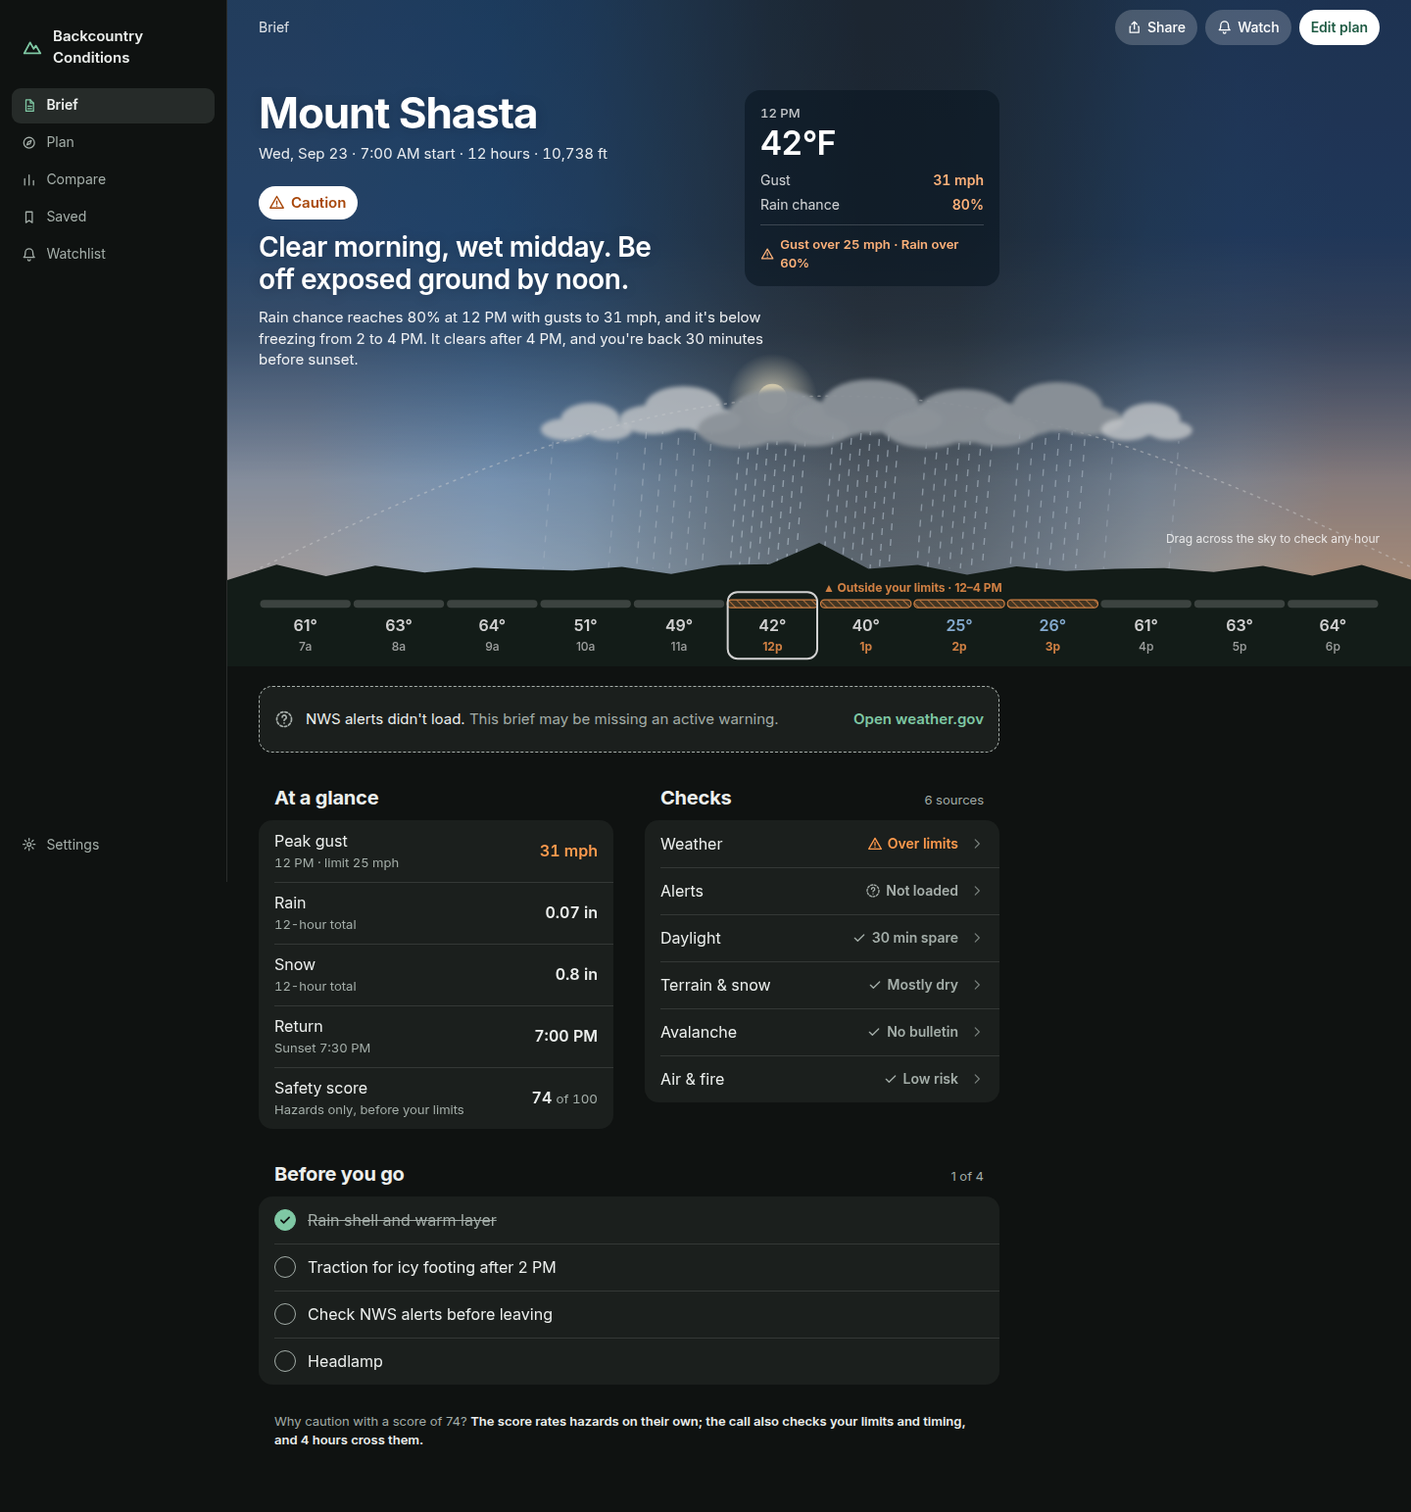
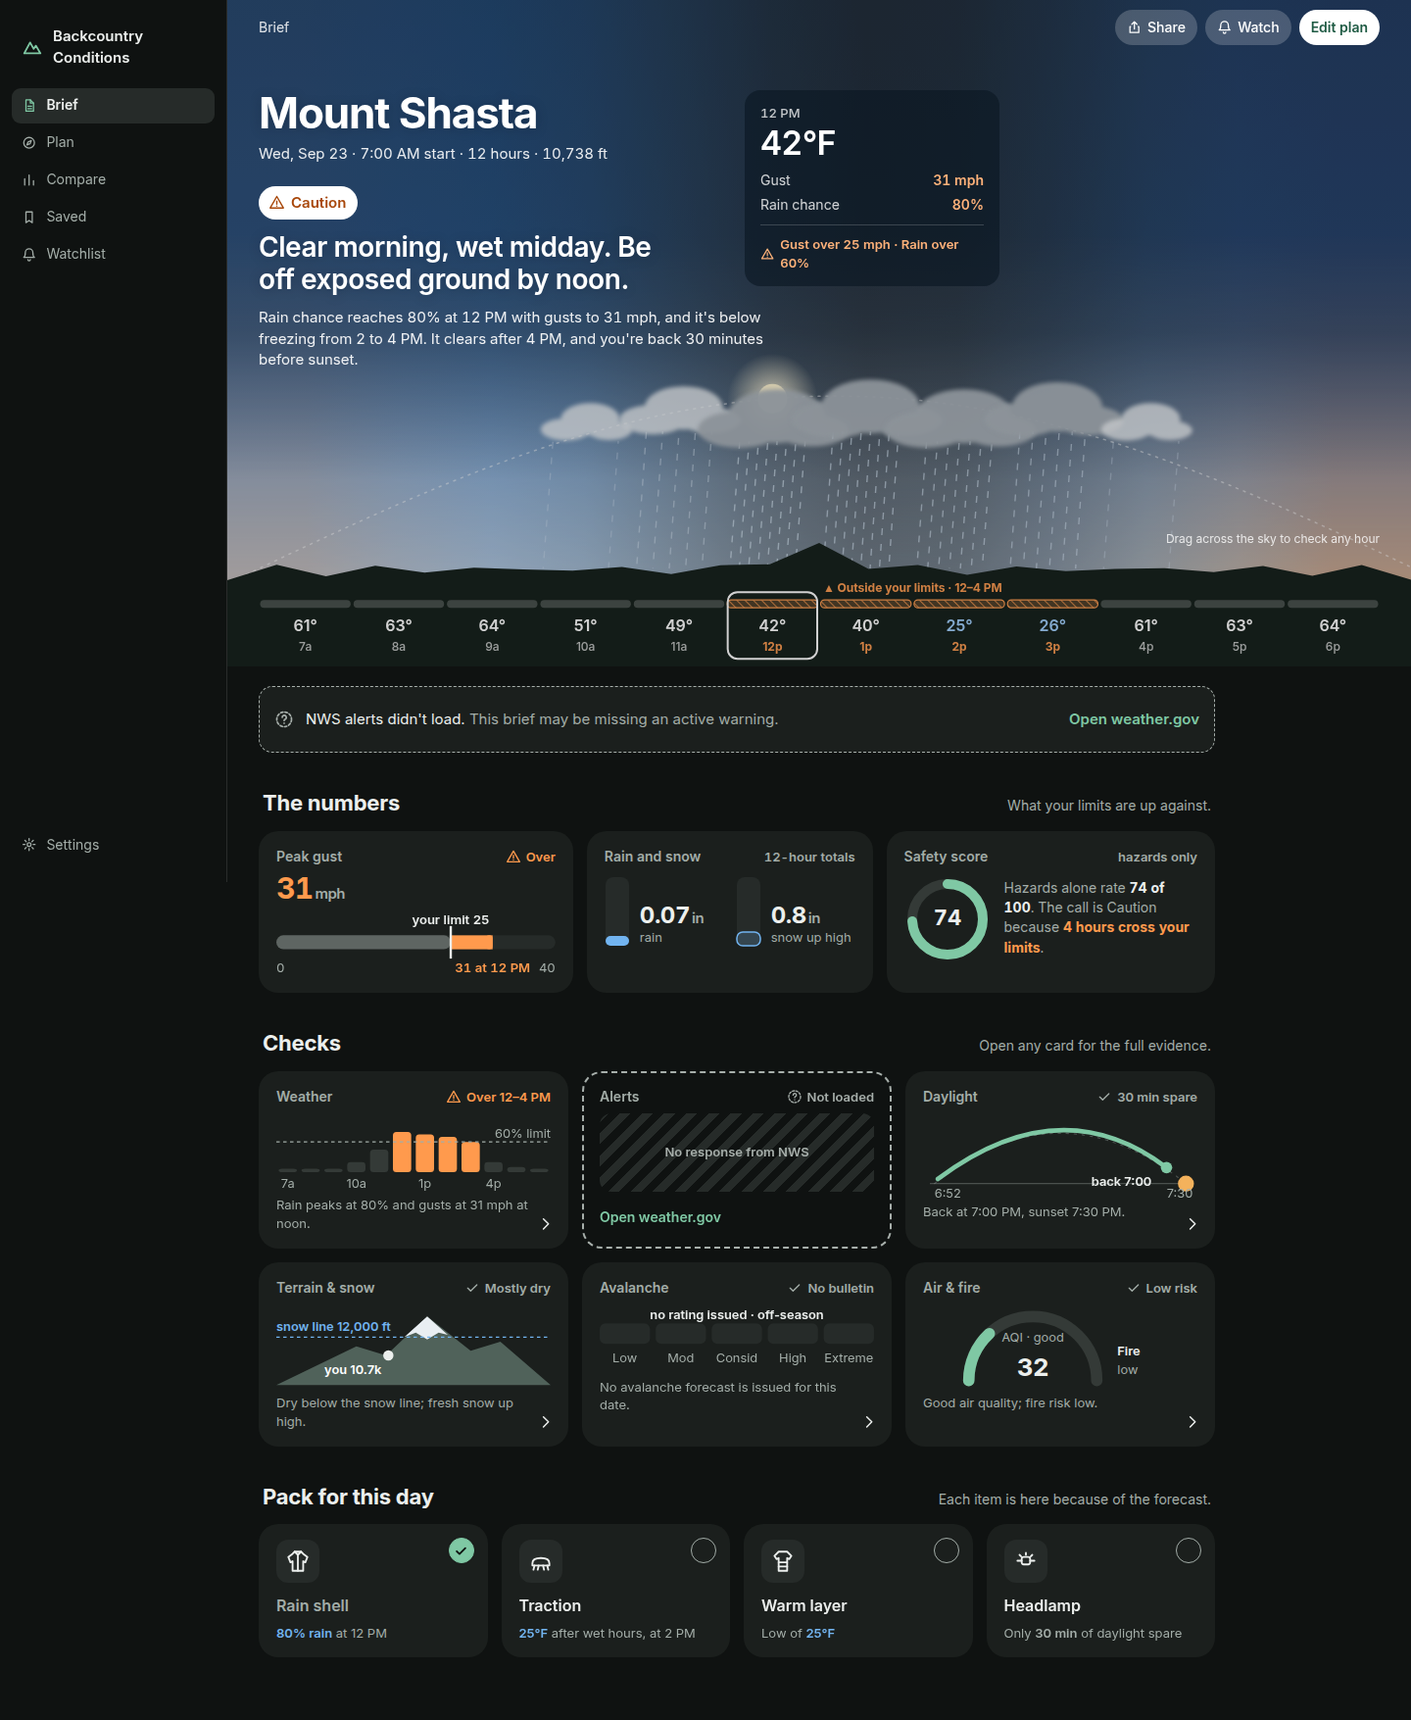
Give Sky (E) sections data-drawn visuals
Replace plain lists below the sky with cards whose pictures come from
the data: gust vs. limit bar, rain and snow gauges, score ring with the
reason for Caution, hourly weather bars against the rain limit, a
daylight arc with return time, a snow line against objective
elevation, the avalanche scale with no rating, an AQI gauge, a visibly
empty Alerts card, and a packing list where each item cites the
forecast that calls for it.

Claude-Session: https://claude.ai/code/session_01Nq5FVqMsNGnvnmLnbVQbdi

diff --git a/design-concepts/e-sky.html b/design-concepts/e-sky.html
@@ -224,6 +224,69 @@ a.row:hover{background:color-mix(in srgb,var(--fill) 55%,transparent)}
  .hint{display:none}
  .content-e{padding:16px 16px 120px}
 }
+/* ===== E2: sections carry the sky's idea — every visual is drawn from data ===== */
+.content-e{max-width:1040px}
+.content-e section{margin-top:36px}
+.content-e .sh{padding:0 4px 12px}
+.content-e .sh h3{font-size:22px}
+.content-e .sh p{font-size:14px;color:var(--secondary);margin-top:2px}
+.card{background:var(--surface);border-radius:20px;padding:16px 18px 16px;position:relative;display:flex;flex-direction:column;gap:6px;min-width:0}
+a.card{transition:transform .15s ease,box-shadow .15s ease}
+a.card:hover{box-shadow:0 6px 20px -10px rgba(10,30,20,.35)}
+@media (prefers-reduced-motion:no-preference){a.card:active{transform:scale(.985)}}
+.card .hd{display:flex;align-items:center;justify-content:space-between;gap:8px;font-size:14px;font-weight:600;color:var(--secondary)}
+.card .hd .st{font-size:13px}
+.card .big{font-size:30px;font-weight:700;letter-spacing:-.02em;line-height:1.1}
+.card .big small{font-size:15px;font-weight:600;color:var(--secondary);margin-left:2px}
+.card .big.over{color:var(--caution)}
+.card .cap{font-size:13px;color:var(--secondary)}
+a.card .cap{padding-right:22px}
+.card svg.viz{display:block;width:100%;height:auto;margin-top:4px;overflow:visible}
+.card .chev{position:absolute;right:14px;bottom:16px}
+.viz text{font-family:var(--font);font-size:11px;fill:var(--secondary)}
+.viz .ink{fill:var(--label)} .viz .inks{stroke:var(--label)}
+.viz .ok{fill:var(--ok-fill)} .viz .okS{stroke:var(--ok-fill)}
+.viz .cau{fill:var(--caution)} .viz .cauS{stroke:var(--caution)} .viz text.cau{fill:var(--caution);font-weight:600}
+.viz .cold{fill:var(--cold)} .viz .coldS{stroke:var(--cold)} .viz text.cold{fill:var(--cold);font-weight:600}
+.viz .sec{fill:var(--secondary)} .viz .secS{stroke:var(--secondary)}
+.viz .surf{fill:var(--surface)} .viz .fillc{fill:var(--fill)}
+.viz .acc{fill:var(--accent)} .viz .accS{stroke:var(--accent)}
+.viz .mtn{fill:#6f8378} .viz .snow{fill:#fff;stroke:#b9c6cf;stroke-width:1}
+@media (prefers-color-scheme:dark){.viz .mtn{fill:#50625a}.viz .snow{fill:#e9eef2;stroke:none}}
+
+.nums{display:grid;grid-template-columns:1.1fr 1fr 1.15fr;gap:14px}
+.checks{display:grid;grid-template-columns:repeat(3,1fr);gap:14px}
+.pack{display:grid;grid-template-columns:repeat(4,1fr);gap:14px}
+
+.card.missing{background:transparent;outline:2px dashed var(--missing);outline-offset:-2px}
+.card.missing .empty{flex:1;display:grid;place-items:center;min-height:64px;border-radius:12px;background:repeating-linear-gradient(-45deg,transparent 0 8px,var(--fill) 8px 16px);color:var(--missing);font-size:13px;font-weight:600}
+.card.missing a.cta{margin-top:4px;font-size:14px;font-weight:600;color:var(--accent);min-height:32px;display:inline-flex;align-items:center}
+
+.item{cursor:pointer}
+.item .ic{width:44px;height:44px;border-radius:12px;display:grid;place-items:center;background:var(--fill);color:var(--label)}
+.item .ic .sym{width:26px;height:26px;stroke-width:1.7}
+.item .name{font-weight:600;font-size:16px;margin-top:6px}
+.item .why{font-size:13px;color:var(--secondary)}
+.item .why b{font-weight:600}
+.item .why b.cau{color:var(--caution)} .item .why b.cold{color:var(--cold)} .item .why b.miss{color:var(--missing)}
+.item .tick{position:absolute;top:14px;right:14px;width:26px;height:26px;border-radius:50%;border:1.5px solid var(--secondary);display:grid;place-items:center}
+.item.done .tick{background:var(--accent);border-color:var(--accent);color:var(--on-accent)}
+.item.done .tick .sym{width:15px;height:15px;stroke-width:3}
+.item.done .name{color:var(--secondary)}
+.item input{position:absolute;opacity:0;inset:0;cursor:pointer}
+
+@media (max-width:1000px){.checks{grid-template-columns:repeat(2,1fr)}.pack{grid-template-columns:repeat(2,1fr)}.nums{grid-template-columns:1fr 1fr}.nums .score{grid-column:1/-1}}
+@media (max-width:760px){
+ .content-e section{margin-top:28px}
+ .nums,.checks,.pack{gap:10px}
+ .nums{grid-template-columns:1fr}
+ .checks{grid-template-columns:1fr}
+ .checks svg.viz:not(#wx){max-width:280px}
+ .content-e .sh{display:block}
+ .card{padding:14px 14px 14px;border-radius:18px}
+ .card .big{font-size:26px}
+ .checks .card .cap{font-size:12.5px}
+}
 </style></head><body>
 <svg width="0" height="0" style="position:absolute" aria-hidden="true">
  <symbol id="s-mtn" viewBox="0 0 24 24"><path d="M3 19l6.5-12 4 7 2.5-3.5L21 19z"/></symbol>
@@ -239,6 +302,10 @@ a.row:hover{background:color-mix(in srgb,var(--fill) 55%,transparent)}
  <symbol id="s-q" viewBox="0 0 24 24"><circle cx="12" cy="12" r="9" stroke-dasharray="3 2.4"/><path d="M9.6 9.6a2.5 2.5 0 1 1 3.4 2.3c-.6.3-1 .8-1 1.5M12 16.6v.1"/></symbol>
  <symbol id="s-chev" viewBox="0 0 24 24"><path d="M9 5l7 7-7 7"/></symbol>
  <symbol id="s-sun" viewBox="0 0 24 24"><path d="M4 17h16M8 17a4 4 0 0 1 8 0M12 7v2.5M6.3 11.3l1.6 1.6M17.7 11.3l-1.6 1.6"/></symbol>
+<symbol id="s-jacket" viewBox="0 0 24 24"><path d="M9 3h6l2 2 4 3-2 5-2-1v9H7v-9l-2 1-2-5 4-3z"/><path d="M12 5v16M9 3l3 3 3-3"/></symbol>
+ <symbol id="s-spikes" viewBox="0 0 24 24"><path d="M4 14c0-3 3-5 8-5s8 2 8 5v2H4z"/><path d="M6 16l-1 4M10 16l-1 4M14 16l1 4M18 16l1 4"/></symbol>
+ <symbol id="s-layer" viewBox="0 0 24 24"><path d="M8 3h8l4 4-2 3-2-1v12H8V9l-2 1-2-3z"/><path d="M8 13h8M8 17h8"/></symbol>
+ <symbol id="s-lamp" viewBox="0 0 24 24"><rect x="8" y="8" width="8" height="7" rx="2"/><path d="M4 11.5h4M16 11.5h4M12 4v2M6 6l1.5 1.5M18 6l-1.5 1.5"/></symbol>
 </svg>
 
 <div class="app">
@@ -282,42 +349,121 @@ a.row:hover{background:color-mix(in srgb,var(--fill) 55%,transparent)}
     <a href="#">Open weather.gov</a>
    </div>
 
-   <div class="two">
-    <section>
-     <div class="sh"><h3>At a glance</h3></div>
-     <div class="group num">
-      <div class="row"><span class="k">Peak gust<small>12 PM · limit 25 mph</small></span><span class="val over">31 mph</span></div>
-      <div class="row"><span class="k">Rain<small>12-hour total</small></span><span class="val">0.07 in</span></div>
-      <div class="row"><span class="k">Snow<small>12-hour total</small></span><span class="val">0.8 in</span></div>
-      <div class="row"><span class="k">Return<small>Sunset 7:30 PM</small></span><span class="val">7:00 PM</span></div>
-      <div class="row"><span class="k">Safety score<small>Hazards only, before your limits</small></span><span class="val">74 <small>of 100</small></span></div>
-     </div>
-    </section>
-
-    <section>
-     <div class="sh"><h3>Checks</h3><span>6 sources</span></div>
-     <div class="group">
-      <a class="row" href="#"><span class="k">Weather</span><span class="st over"><svg class="sym"><use href="#s-tri"/></svg>Over limits</span><svg class="sym chev"><use href="#s-chev"/></svg></a>
-      <a class="row" href="#"><span class="k">Alerts</span><span class="st missing"><svg class="sym"><use href="#s-q"/></svg>Not loaded</span><svg class="sym chev"><use href="#s-chev"/></svg></a>
-      <a class="row" href="#"><span class="k">Daylight</span><span class="st ok"><svg class="sym"><use href="#s-check"/></svg>30 min spare</span><svg class="sym chev"><use href="#s-chev"/></svg></a>
-      <a class="row" href="#"><span class="k">Terrain &amp; snow</span><span class="st ok"><svg class="sym"><use href="#s-check"/></svg>Mostly dry</span><svg class="sym chev"><use href="#s-chev"/></svg></a>
-      <a class="row" href="#"><span class="k">Avalanche</span><span class="st ok"><svg class="sym"><use href="#s-check"/></svg>No bulletin</span><svg class="sym chev"><use href="#s-chev"/></svg></a>
-      <a class="row" href="#"><span class="k">Air &amp; fire</span><span class="st ok"><svg class="sym"><use href="#s-check"/></svg>Low risk</span><svg class="sym chev"><use href="#s-chev"/></svg></a>
-     </div>
-    </section>
-   </div>
-
    <section>
-    <div class="sh"><h3>Before you go</h3><span>1 of 4</span></div>
-    <div class="group">
-     <label class="row done"><span class="check on"><svg class="sym"><use href="#s-check"/></svg></span><span class="k">Rain shell and warm layer</span></label>
-     <label class="row"><span class="check"></span><span class="k">Traction for icy footing after 2 PM</span></label>
-     <label class="row"><span class="check"></span><span class="k">Check NWS alerts before leaving</span></label>
-     <label class="row"><span class="check"></span><span class="k">Headlamp</span></label>
+    <div class="sh"><h3>The numbers</h3><p>What your limits are up against.</p></div>
+    <div class="nums num">
+     <div class="card">
+      <div class="hd">Peak gust<span class="st over"><svg class="sym"><use href="#s-tri"/></svg>Over</span></div>
+      <div class="big over">31<small>mph</small></div>
+      <svg class="viz" viewBox="0 0 240 54" role="img" aria-label="Peak gust 31 miles per hour at 12 PM; your limit is 25.">
+       <rect x="0" y="18" width="240" height="12" rx="6" class="fillc"/>
+       <rect x="0" y="18" width="150" height="12" rx="6" class="sec" opacity=".45"/>
+       <rect x="150" y="18" width="36" height="12" class="cau"/>
+       <rect x="180" y="18" width="6" height="12" rx="3" class="cau"/>
+       <line x1="150" y1="10" x2="150" y2="38" class="inks" stroke-width="2"/>
+       <text x="150" y="8" text-anchor="middle" class="ink" style="font-weight:600">your limit 25</text>
+       <text x="0" y="50">0</text><text x="186" y="50" text-anchor="middle" class="cau">31 at 12 PM</text><text x="240" y="50" text-anchor="end">40</text>
+      </svg>
+     </div>
+     <div class="card">
+      <div class="hd">Rain and snow<span class="st ok">12-hour totals</span></div>
+      <div style="display:grid;grid-template-columns:repeat(auto-fit,minmax(112px,1fr));gap:12px;align-items:end">
+       <div style="display:flex;gap:10px;align-items:flex-end">
+        <svg class="viz" viewBox="0 0 26 72" style="width:26px;flex:none" role="img" aria-label="Rain 0.07 inches on a 0 to 0.5 inch gauge."><rect x="1" y="1" width="24" height="70" rx="8" class="fillc"/><rect x="1" y="61" width="24" height="10" rx="5" class="cold"/></svg>
+        <div><div class="big" style="font-size:24px">0.07<small>in</small></div><div class="cap">rain</div></div>
+       </div>
+       <div style="display:flex;gap:10px;align-items:flex-end">
+        <svg class="viz" viewBox="0 0 26 72" style="width:26px;flex:none" role="img" aria-label="Snow 0.8 inches on a 0 to 4 inch gauge."><rect x="1" y="1" width="24" height="70" rx="8" class="fillc"/><rect x="1" y="57" width="24" height="14" rx="6" class="coldS" style="fill:var(--cold-fill)" stroke-width="1.5"/></svg>
+        <div><div class="big" style="font-size:24px">0.8<small>in</small></div><div class="cap">snow up high</div></div>
+       </div>
+      </div>
+     </div>
+     <div class="card score">
+      <div class="hd">Safety score<span class="st ok">hazards only</span></div>
+      <div style="display:flex;gap:14px;align-items:center">
+       <svg class="viz" viewBox="0 0 88 88" style="width:88px;flex:none" role="img" aria-label="Safety score 74 of 100.">
+        <circle cx="44" cy="44" r="36" fill="none" class="okS" stroke-width="10"/>
+        <circle cx="44" cy="44" r="36" fill="none" class="accS" stroke-width="10" stroke-linecap="round" stroke-dasharray="167.4 226.2" transform="rotate(-90 44 44)"/>
+        <text x="44" y="50" text-anchor="middle" class="ink" style="font-size:22px;font-weight:700">74</text>
+       </svg>
+       <div class="cap" style="font-size:14px">Hazards alone rate <b style="color:var(--label)">74 of 100</b>. The call is Caution because <b style="color:var(--caution)">4 hours cross your limits</b>.</div>
+      </div>
+     </div>
     </div>
    </section>
 
-   <p class="foot">Why caution with a score of 74? <b>The score rates hazards on their own; the call also checks your limits and timing, and 4 hours cross them.</b></p>
+   <section>
+    <div class="sh"><h3>Checks</h3><p>Open any card for the full evidence.</p></div>
+    <div class="checks">
+     <a class="card" href="#">
+      <div class="hd">Weather<span class="st over"><svg class="sym"><use href="#s-tri"/></svg>Over 12–4 PM</span></div>
+      <svg class="viz" id="wx" viewBox="0 0 240 64" role="img" aria-label="Hourly rain chance, 7 AM to 6 PM; hours 12 to 3 PM exceed your limits."></svg>
+      <div class="cap">Rain peaks at 80% and gusts at 31 mph at noon.</div>
+      <svg class="sym chev"><use href="#s-chev"/></svg>
+     </a>
+     <div class="card missing">
+      <div class="hd">Alerts<span class="st missing"><svg class="sym"><use href="#s-q"/></svg>Not loaded</span></div>
+      <div class="empty">No response from NWS</div>
+      <a class="cta" href="#">Open weather.gov</a>
+     </div>
+     <a class="card" href="#">
+      <div class="hd">Daylight<span class="st ok"><svg class="sym"><use href="#s-check"/></svg>30 min spare</span></div>
+      <svg class="viz" viewBox="0 0 240 70" role="img" aria-label="Sunrise 6:52 AM, sunset 7:30 PM. You start at 7 AM and return at 7 PM, 30 minutes before sunset.">
+       <line x1="6" y1="58" x2="234" y2="58" class="secS" stroke-opacity=".35"/>
+       <path d="M10 58 Q120 -30 230 58" fill="none" class="secS" stroke-opacity=".35" stroke-dasharray="2 5" stroke-linecap="round"/>
+       <path d="M13 54 Q120 -26 213 44" fill="none" class="accS" stroke-width="4" stroke-linecap="round"/>
+       <circle cx="213" cy="44" r="5" class="acc"/><circle cx="230" cy="58" r="7" style="fill:#f4b25c"/>
+       <text x="10" y="70">6:52</text><text x="200" y="60" text-anchor="end" class="ink" style="font-weight:600">back 7:00</text><text x="236" y="70" text-anchor="end">7:30</text>
+      </svg>
+      <div class="cap">Back at 7:00 PM, sunset 7:30 PM.</div>
+      <svg class="sym chev"><use href="#s-chev"/></svg>
+     </a>
+     <a class="card" href="#">
+      <div class="hd">Terrain &amp; snow<span class="st ok"><svg class="sym"><use href="#s-check"/></svg>Mostly dry</span></div>
+      <svg class="viz" viewBox="0 0 240 70" role="img" aria-label="Snow line near 12,000 feet; your objective at 10,738 feet is below it.">
+       <path d="M0 68 L70 34 L96 42 L132 8 L170 38 L196 30 L240 68Z" class="mtn"/>
+       <path d="M112 26 L132 8 L150 24 L142 22 L132 28 L122 22Z" class="snow"/>
+       <line x1="0" y1="26" x2="240" y2="26" class="coldS" stroke-dasharray="3 3"/>
+       <text x="0" y="21" class="cold">snow line 12,000 ft</text>
+       <circle cx="98" cy="42" r="4.5" class="ink"/><text x="92" y="58" text-anchor="end" style="fill:#fff;font-weight:600">you 10.7k</text>
+      </svg>
+      <div class="cap">Dry below the snow line; fresh snow up high.</div>
+      <svg class="sym chev"><use href="#s-chev"/></svg>
+     </a>
+     <a class="card" href="#">
+      <div class="hd">Avalanche<span class="st ok"><svg class="sym"><use href="#s-check"/></svg>No bulletin</span></div>
+      <svg class="viz" viewBox="0 0 240 56" role="img" aria-label="No avalanche danger rating is issued for this date.">
+       <g><rect x="0" y="14" width="44" height="18" rx="5" class="fillc"/><rect x="49" y="14" width="44" height="18" rx="5" class="fillc"/><rect x="98" y="14" width="44" height="18" rx="5" class="fillc"/><rect x="147" y="14" width="44" height="18" rx="5" class="fillc"/><rect x="196" y="14" width="44" height="18" rx="5" class="fillc"/></g>
+       <text x="22" y="48" text-anchor="middle">Low</text><text x="71" y="48" text-anchor="middle">Mod</text><text x="120" y="48" text-anchor="middle">Consid</text><text x="169" y="48" text-anchor="middle">High</text><text x="218" y="48" text-anchor="middle">Extreme</text>
+       <text x="120" y="10" text-anchor="middle" class="ink" style="font-weight:600">no rating issued · off-season</text>
+      </svg>
+      <div class="cap">No avalanche forecast is issued for this date.</div>
+      <svg class="sym chev"><use href="#s-chev"/></svg>
+     </a>
+     <a class="card" href="#">
+      <div class="hd">Air &amp; fire<span class="st ok"><svg class="sym"><use href="#s-check"/></svg>Low risk</span></div>
+      <svg class="viz" viewBox="0 0 240 70" role="img" aria-label="Air quality index 32, good. Fire risk low.">
+       <path d="M40 64 A56 56 0 0 1 152 64" fill="none" class="okS" stroke-width="10" stroke-linecap="round"/>
+       <path d="M40 64 A56 56 0 0 1 58 23" fill="none" class="accS" stroke-width="10" stroke-linecap="round"/>
+       <text x="96" y="60" text-anchor="middle" class="ink" style="font-size:22px;font-weight:700">32</text>
+       <text x="96" y="30" text-anchor="middle">AQI · good</text>
+       <text x="170" y="42" class="ink" style="font-weight:600">Fire</text><text x="170" y="58">low</text>
+      </svg>
+      <div class="cap">Good air quality; fire risk low.</div>
+      <svg class="sym chev"><use href="#s-chev"/></svg>
+     </a>
+    </div>
+   </section>
+
+   <section>
+    <div class="sh"><h3>Pack for this day</h3><p>Each item is here because of the forecast.</p></div>
+    <div class="pack">
+     <label class="card item done"><input type="checkbox" checked aria-label="Rain shell"><span class="tick"><svg class="sym"><use href="#s-check"/></svg></span><span class="ic"><svg class="sym"><use href="#s-jacket"/></svg></span><span class="name">Rain shell</span><span class="why"><b class="cold">80% rain</b> at 12 PM</span></label>
+     <label class="card item"><input type="checkbox" aria-label="Traction"><span class="tick"></span><span class="ic"><svg class="sym"><use href="#s-spikes"/></svg></span><span class="name">Traction</span><span class="why"><b class="cold">25°F</b> after wet hours, at 2 PM</span></label>
+     <label class="card item"><input type="checkbox" aria-label="Warm layer"><span class="tick"></span><span class="ic"><svg class="sym"><use href="#s-layer"/></svg></span><span class="name">Warm layer</span><span class="why">Low of <b class="cold">25°F</b></span></label>
+     <label class="card item"><input type="checkbox" aria-label="Headlamp"><span class="tick"></span><span class="ic"><svg class="sym"><use href="#s-lamp"/></svg></span><span class="name">Headlamp</span><span class="why">Only <b>30 min</b> of daylight spare</span></label>
+    </div>
+   </section>
   </main>
  </div>
 </div>
@@ -399,6 +545,7 @@ sky.addEventListener('pointermove',e=>{if(e.buttons)pick(e)});
 sky.addEventListener('keydown',e=>{if(e.key==='ArrowRight'){setSel(sel+1);e.preventDefault()}if(e.key==='ArrowLeft'){setSel(sel-1);e.preventDefault()}});
 addEventListener('resize',draw);
 readout();
+const wx=document.getElementById('wx');if(wx){let t='';const bw=240/12;H.forEach((h,i)=>{const bh=Math.max(3,h.p/100*44),x0=i*bw+2,w=bw-4;t+=`<rect x="${x0}" y="${48-bh}" width="${w}" height="${bh}" rx="3" class="${h.ok?'ok':'cau'}"/>`;if(i%3===0)t+=`<text x="${x0+w/2}" y="62" text-anchor="middle">${h.h}</text>`;});t+=`<line x1="0" y1="${48-.6*44}" x2="240" y2="${48-.6*44}" class="secS" stroke-dasharray="3 3"/><text x="240" y="${48-.6*44-4}" text-anchor="end">60% limit</text>`;wx.innerHTML=t;}
 // one defining moment: the sun rises and travels to the first hour that needs attention
 if(matchMedia('(prefers-reduced-motion: reduce)').matches||location.hash==='#still'){draw();}
 else{const t0=performance.now(),end=sel+.5;(function f(now){const k=Math.min(1,(now-t0)/1400),e=1-Math.pow(1-k,3);sunT=TR+(end-TR)*e;draw();if(k<1)requestAnimationFrame(f)})(t0);}
@@ -408,5 +555,6 @@ const tb=document.querySelector('.toolbar'),h1=document.querySelector('h1');
 function bar(){const hb=hero.getBoundingClientRect().bottom;tb.classList.toggle('over-hero',hb>tb.offsetHeight+4);tb.classList.toggle('scrolled',h1.getBoundingClientRect().bottom<tb.offsetHeight&&hb<=tb.offsetHeight+4);}
 addEventListener('scroll',bar,{passive:true});bar();
 function tuck(){hero.style.marginTop=-tb.offsetHeight+'px';draw()}addEventListener('resize',tuck);tuck();
+document.querySelectorAll('.item input').forEach(i=>i.addEventListener('change',()=>i.closest('.item').classList.toggle('done',i.checked)));
 </script>
 </body></html>
